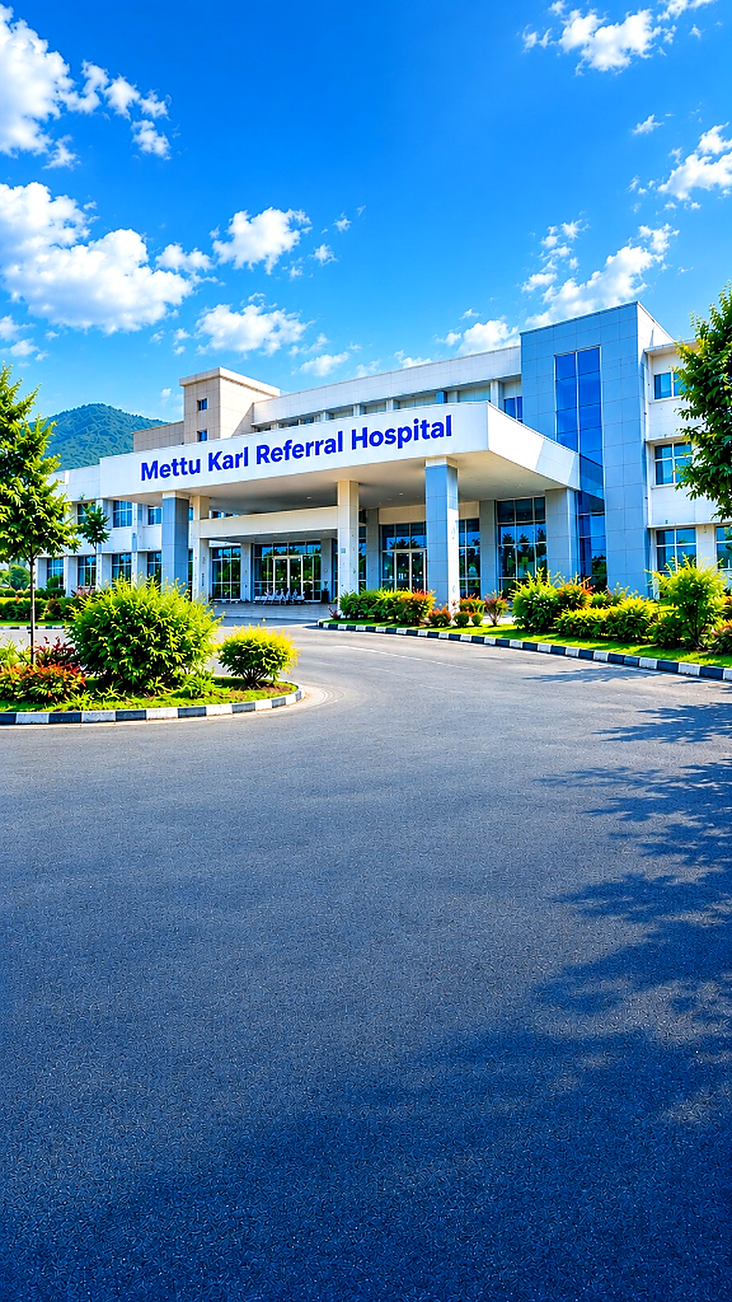
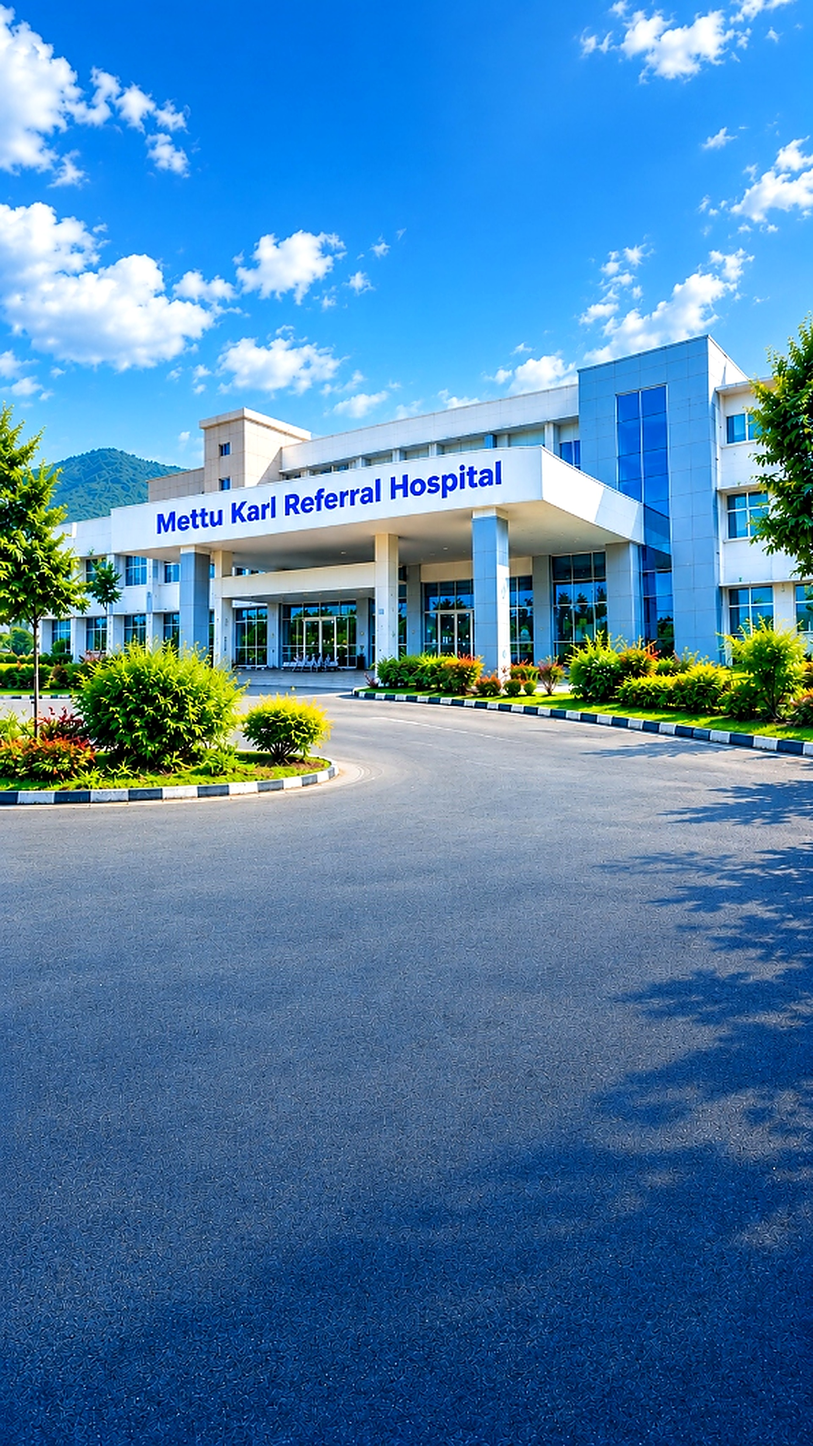
fix(ui): eliminate image obscurity, upgrade building image to 1920x3413 Ultra-HD and load directly via eager HTML picture

diff --git a/frontend/src/app/(auth)/login/page.tsx b/frontend/src/app/(auth)/login/page.tsx
@@ -363,7 +363,7 @@ export default function LoginPage() {
   // Step 3: Part 1 & Part 5 (Left & Right outer wings) reveal (all 5 parts visible!)
   // Step 4: The 5 slices unite into seamless high-definition full image with Ken Burns drift
   // Step 5: Branding, badges, and interactive buttons glide in with glow
-  const [revealStep, setRevealStep] = useState(0);
+  const [revealStep, setRevealStep] = useState(5);
 
   const startRevealSequence = useCallback(() => {
     setRevealStep(0);
@@ -783,67 +783,27 @@ export default function LoginPage() {
       <div className="w-full h-full relative shrink-0 flex flex-col justify-between overflow-y-auto lg:overflow-hidden select-none">
         
         {/* =================================================================== */}
-        {/* FULL-BLEED BACKGROUND CANVAS (Ultra-Clear HD Razor-Sharp View)       */}
+        {/* FULL-BLEED BACKGROUND CANVAS (Ultra-Clear HD 1920x3413 >1080p View)   */}
         {/* =================================================================== */}
         <div className="absolute inset-0 w-full h-full z-0 overflow-hidden bg-slate-950 pointer-events-none">
-          {/* Uncompromised 100% HD Architectural Canvas (Zero blur, zero pixel stretch) */}
-          <div className="absolute inset-0 w-full h-full scale-100 origin-center transition-transform duration-700">
-            {/* 1. Crystal-Clear HD Building Layer */}
-            <div
-              className={`hero-building-image absolute inset-0 w-full h-full transition-opacity duration-700 ease-out ${
-                revealStep >= 4 ? 'opacity-100' : 'opacity-0'
-              }`}
+          {/* Direct, reliable HTML image rendering with crisp-edges & zero blur */}
+          <picture className="w-full h-full block">
+            <source srcSet="/hospital-building.webp" type="image/webp" />
+            <img
+              src="/hospital-building.jpg"
+              alt="Mettu Karl Referral Hospital Building"
+              loading="eager"
+              decoding="sync"
+              className="w-full h-full object-cover object-center transform scale-100"
+              style={{
+                imageRendering: 'crisp-edges',
+                WebkitBackfaceVisibility: 'hidden',
+              }}
             />
+          </picture>
 
-            {/* 2. Seamless Architectural Shutter Slices */}
-            <div
-              className={`absolute inset-0 w-full h-full flex transition-opacity duration-500 ${
-                revealStep >= 4 ? 'opacity-0 pointer-events-none' : 'opacity-100'
-              }`}
-            >
-              {BUILDING_PARTS.map((part, index) => {
-                const isPartOpen = revealStep >= part.step;
-                return (
-                  <div
-                    key={part.id}
-                    className="relative h-full flex-1 overflow-hidden border-r last:border-r-0 border-white/20 bg-slate-950/80"
-                  >
-                    {/* Image slice for this part */}
-                    <div
-                      className={`hero-building-image absolute inset-0 w-full h-full transition-all duration-700 ease-out transform ${
-                        isPartOpen
-                          ? 'opacity-100 translate-y-0'
-                          : 'opacity-0 scale-105 translate-y-4'
-                      }`}
-                      style={{
-                        backgroundSize: '500% 100%',
-                        backgroundPosition: `${index * 25}% 36%`,
-                      }}
-                    />
-
-                    {/* Shutter Blade that draws upward */}
-                    <div
-                      className={`absolute inset-0 bg-gradient-to-b from-[#0a3a78]/80 via-[#071d3d]/75 to-[#041124]/80 transition-all duration-700 pointer-events-none ${
-                        isPartOpen ? 'opacity-0 -translate-y-full' : 'opacity-100 translate-y-0'
-                      }`}
-                    />
-
-                    {/* Glowing vertical laser beam partition */}
-                    <div
-                      className={`absolute inset-y-0 right-0 w-0.5 bg-gradient-to-b from-transparent via-cyan-400 to-transparent shadow-[0_0_8px_#38bdf8] transition-opacity duration-500 ${
-                        isPartOpen ? 'opacity-70' : 'opacity-25'
-                      }`}
-                    />
-                  </div>
-                );
-              })}
-            </div>
-          </div>
-
-          {/* Clean High-Contrast Clarity Scrim: Enhances text legibility while keeping the building 100% sharp */}
-          <div className="absolute inset-0 bg-gradient-to-b from-slate-950/45 via-transparent to-slate-950/65 pointer-events-none" />
-          <div className="hidden lg:block absolute inset-y-0 left-0 w-28 bg-gradient-to-r from-slate-950/40 to-transparent pointer-events-none" />
-          <div className="hidden lg:block absolute inset-y-0 right-0 w-28 bg-gradient-to-l from-slate-950/40 to-transparent pointer-events-none" />
+          {/* Minimal atmospheric clarity overlay to protect text legibility without dimming the building */}
+          <div className="absolute inset-0 bg-gradient-to-b from-black/40 via-transparent to-black/60 pointer-events-none" />
         </div>
 
         {/* =================================================================== */}
@@ -851,11 +811,7 @@ export default function LoginPage() {
         {/* =================================================================== */}
         
         {/* 1. TOP BRANDING SECTION (FLOATING ON SKY) */}
-        <div
-          className={`relative z-20 px-3.5 pt-8 sm:px-8 sm:pt-8 transition-all duration-700 max-w-xl ${
-            revealStep >= 2 ? 'opacity-100 translate-y-0' : 'opacity-0 -translate-y-4'
-          }`}
-        >
+        <div className="relative z-20 px-3.5 pt-8 sm:px-8 sm:pt-8 max-w-xl opacity-100 translate-y-0">
           <div className="flex items-center gap-3 sm:gap-4">
             <img
               src="/hospital-logo-white.png"
@@ -879,11 +835,7 @@ export default function LoginPage() {
         </div>
 
         {/* 2. ACTION BUTTONS SECTION (FLOATING TOWARDS BOTTOM OVER DRIVEWAY) */}
-        <div
-          className={`relative z-20 w-full flex flex-col items-center justify-center px-4 mt-auto mb-14 sm:mb-8 lg:mb-10 transition-all duration-1000 ${
-            revealStep >= 4 ? 'opacity-100 translate-y-0' : 'opacity-0 translate-y-6'
-          }`}
-        >
+        <div className="relative z-20 w-full flex flex-col items-center justify-center px-4 mt-auto mb-14 sm:mb-8 lg:mb-10 opacity-100 translate-y-0">
           {/* Slight frosted pill grouping buttons smoothly with no harsh border box */}
           <div className="w-full max-w-md backdrop-blur-md bg-slate-950/45 rounded-2xl sm:rounded-3xl p-2 sm:p-3.5 border border-white/20 shadow-2xl ring-1 ring-white/10">
             <div className="flex flex-row items-center justify-center gap-2.5 sm:gap-4 w-full">
